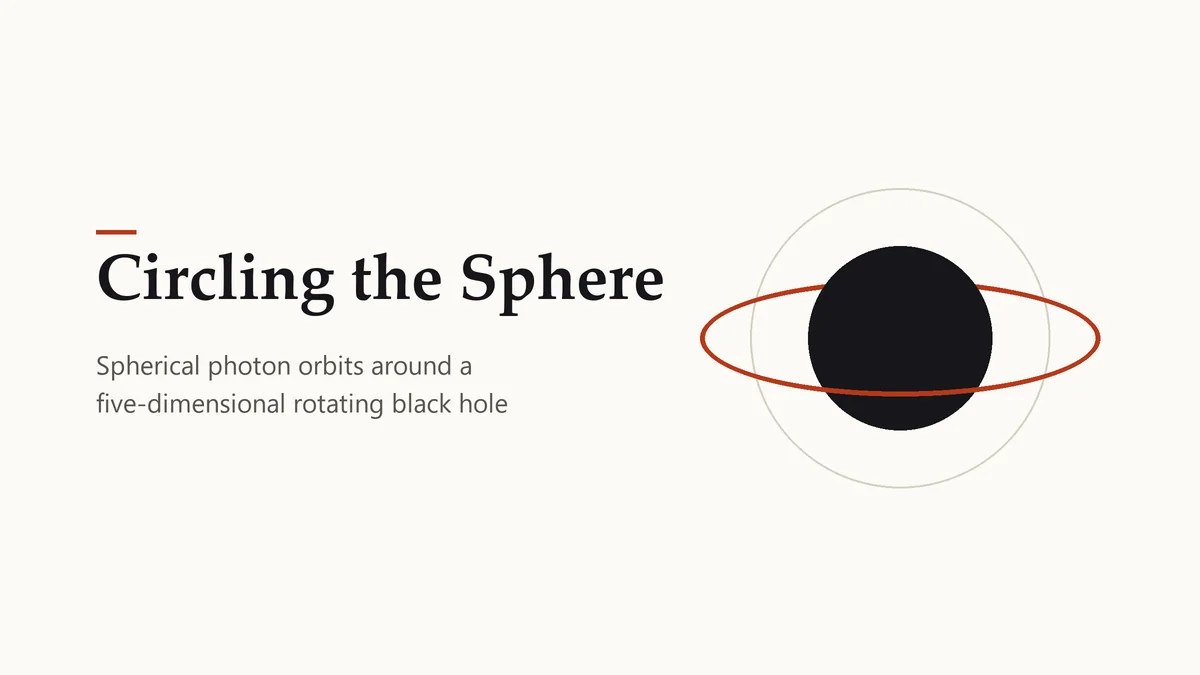
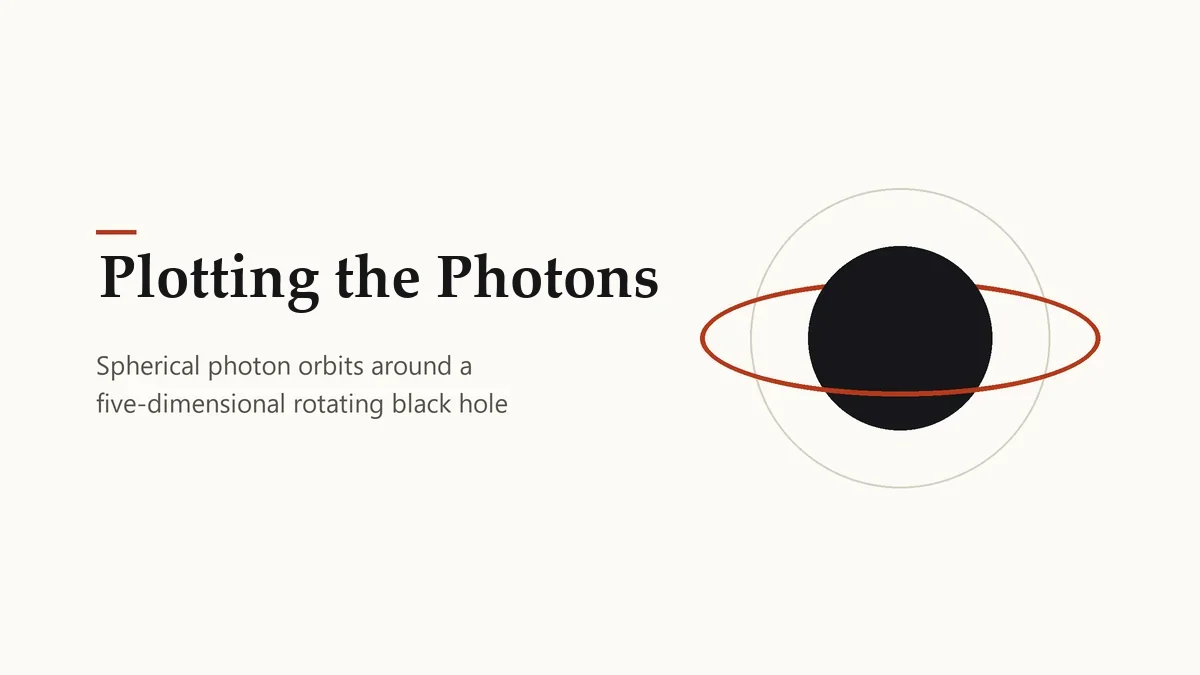
Move to demo-kit v0.5.0 and retitle the demo "Plotting the Photons"
The kit tag, kitVersion and the dark color-scheme meta follow the kit's
template. The title changes in the manifest, the page title, the stub's
title card images and their alt text; the slug stays photon-orbits-5d.
Demo version 0.1.2.

Changed region(s): [[0.0617, 0.3733, 0.555, 0.4667]]

diff --git a/demo/index.html b/demo/index.html
@@ -3,15 +3,15 @@
   <head>
     <meta charset="utf-8">
     <meta name="viewport" content="width=device-width, initial-scale=1">
-    <meta name="color-scheme" content="light dark">
-    <title>Circling the Sphere · Mark Bugden</title>
+    <meta name="color-scheme" content="dark">
+    <title>Plotting the Photons · Mark Bugden</title>
     <meta name="description" content="Light orbiting a five-dimensional rotating black hole.">
     <link rel="icon" href="data:,">
   </head>
   <body style="margin: 0">
     <!-- The still image shows until the script mounts the demo, and stays if JavaScript is off. -->
     <div data-demo="photon-orbits-5d">
-      <img src="./static.webp" width="1200" height="675" alt="Title card reading 'Circling the Sphere: spherical photon orbits around a five-dimensional rotating black hole', beside a drawing of a black disc circled by a ring.">
+      <img src="./static.webp" width="1200" height="675" alt="Title card reading 'Plotting the Photons: spherical photon orbits around a five-dimensional rotating black hole', beside a drawing of a black disc circled by a ring.">
     </div>
     <script type="module" src="./src/main.js"></script>
   </body>

diff --git a/demo/src/main.js b/demo/src/main.js
@@ -19,7 +19,7 @@ const frame = mount({
 const still = document.createElement('img');
 Object.assign(still, {
   src: new URL('static.webp', base).href,
-  alt: 'Title card reading \'Circling the Sphere: spherical photon orbits around a five-dimensional rotating black hole\', beside a drawing of a black disc circled by a ring.',
+  alt: 'Title card reading \'Plotting the Photons: spherical photon orbits around a five-dimensional rotating black hole\', beside a drawing of a black disc circled by a ring.',
   width: 1200,
   height: 675,
 });
